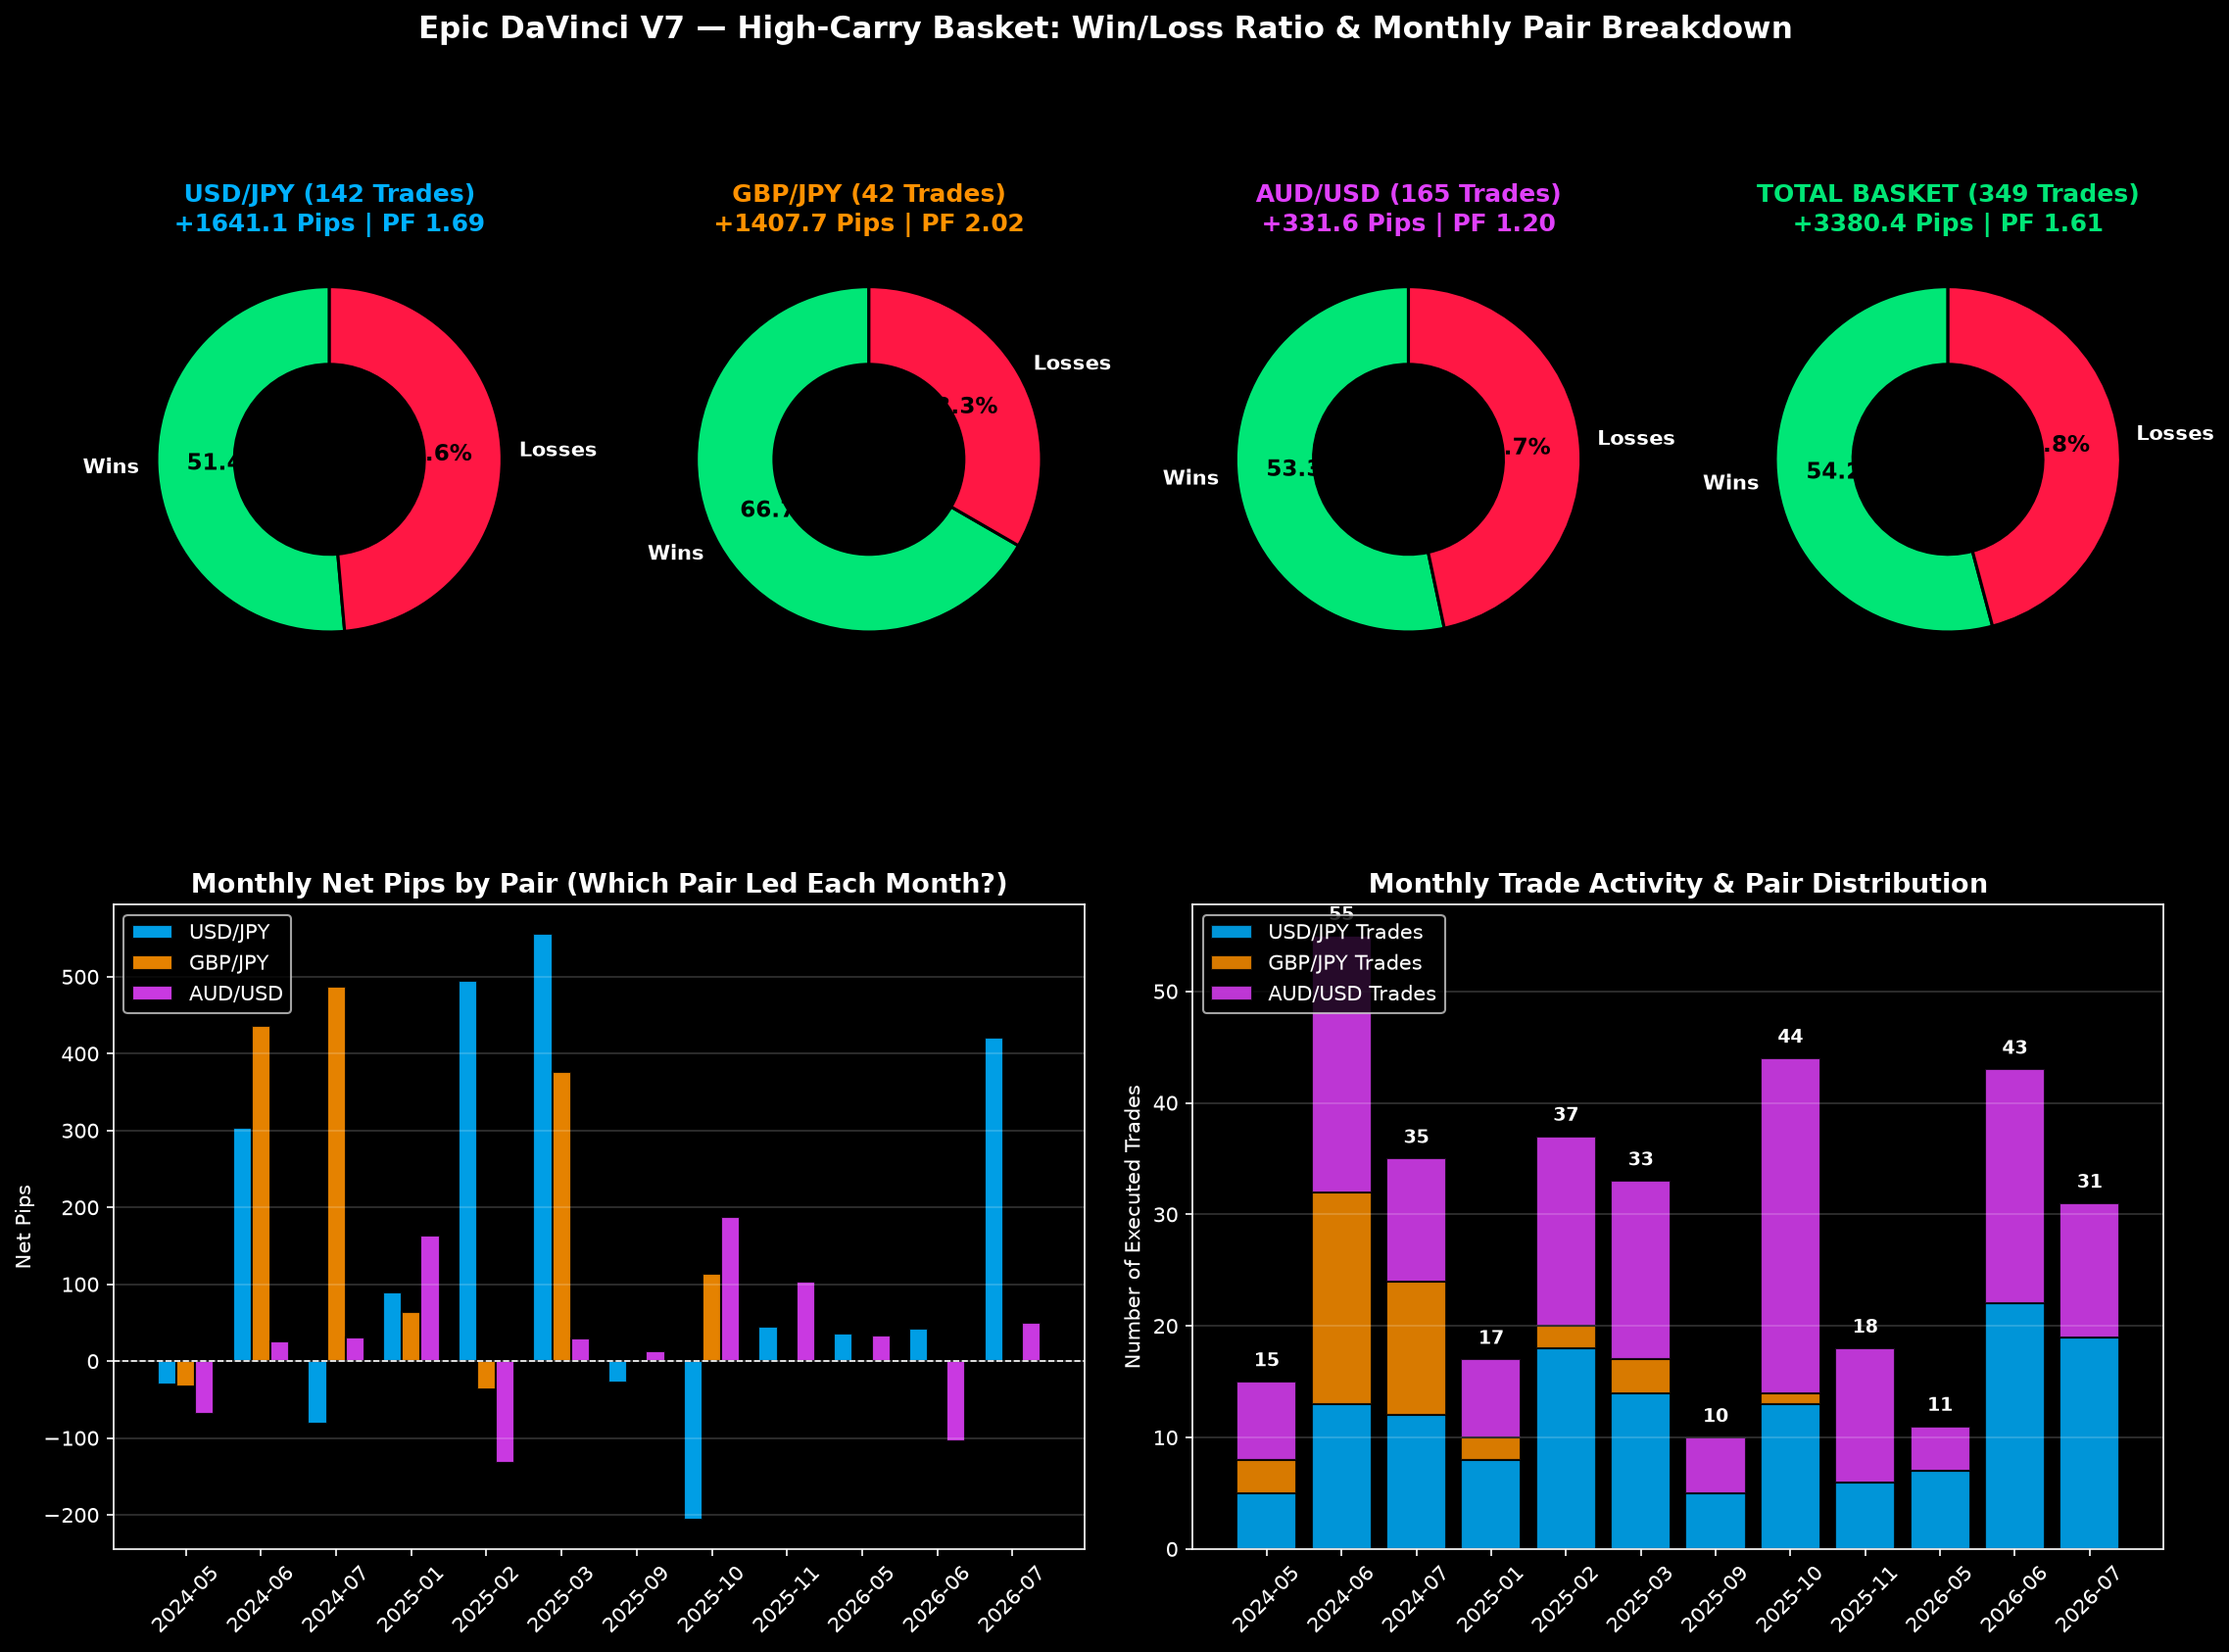
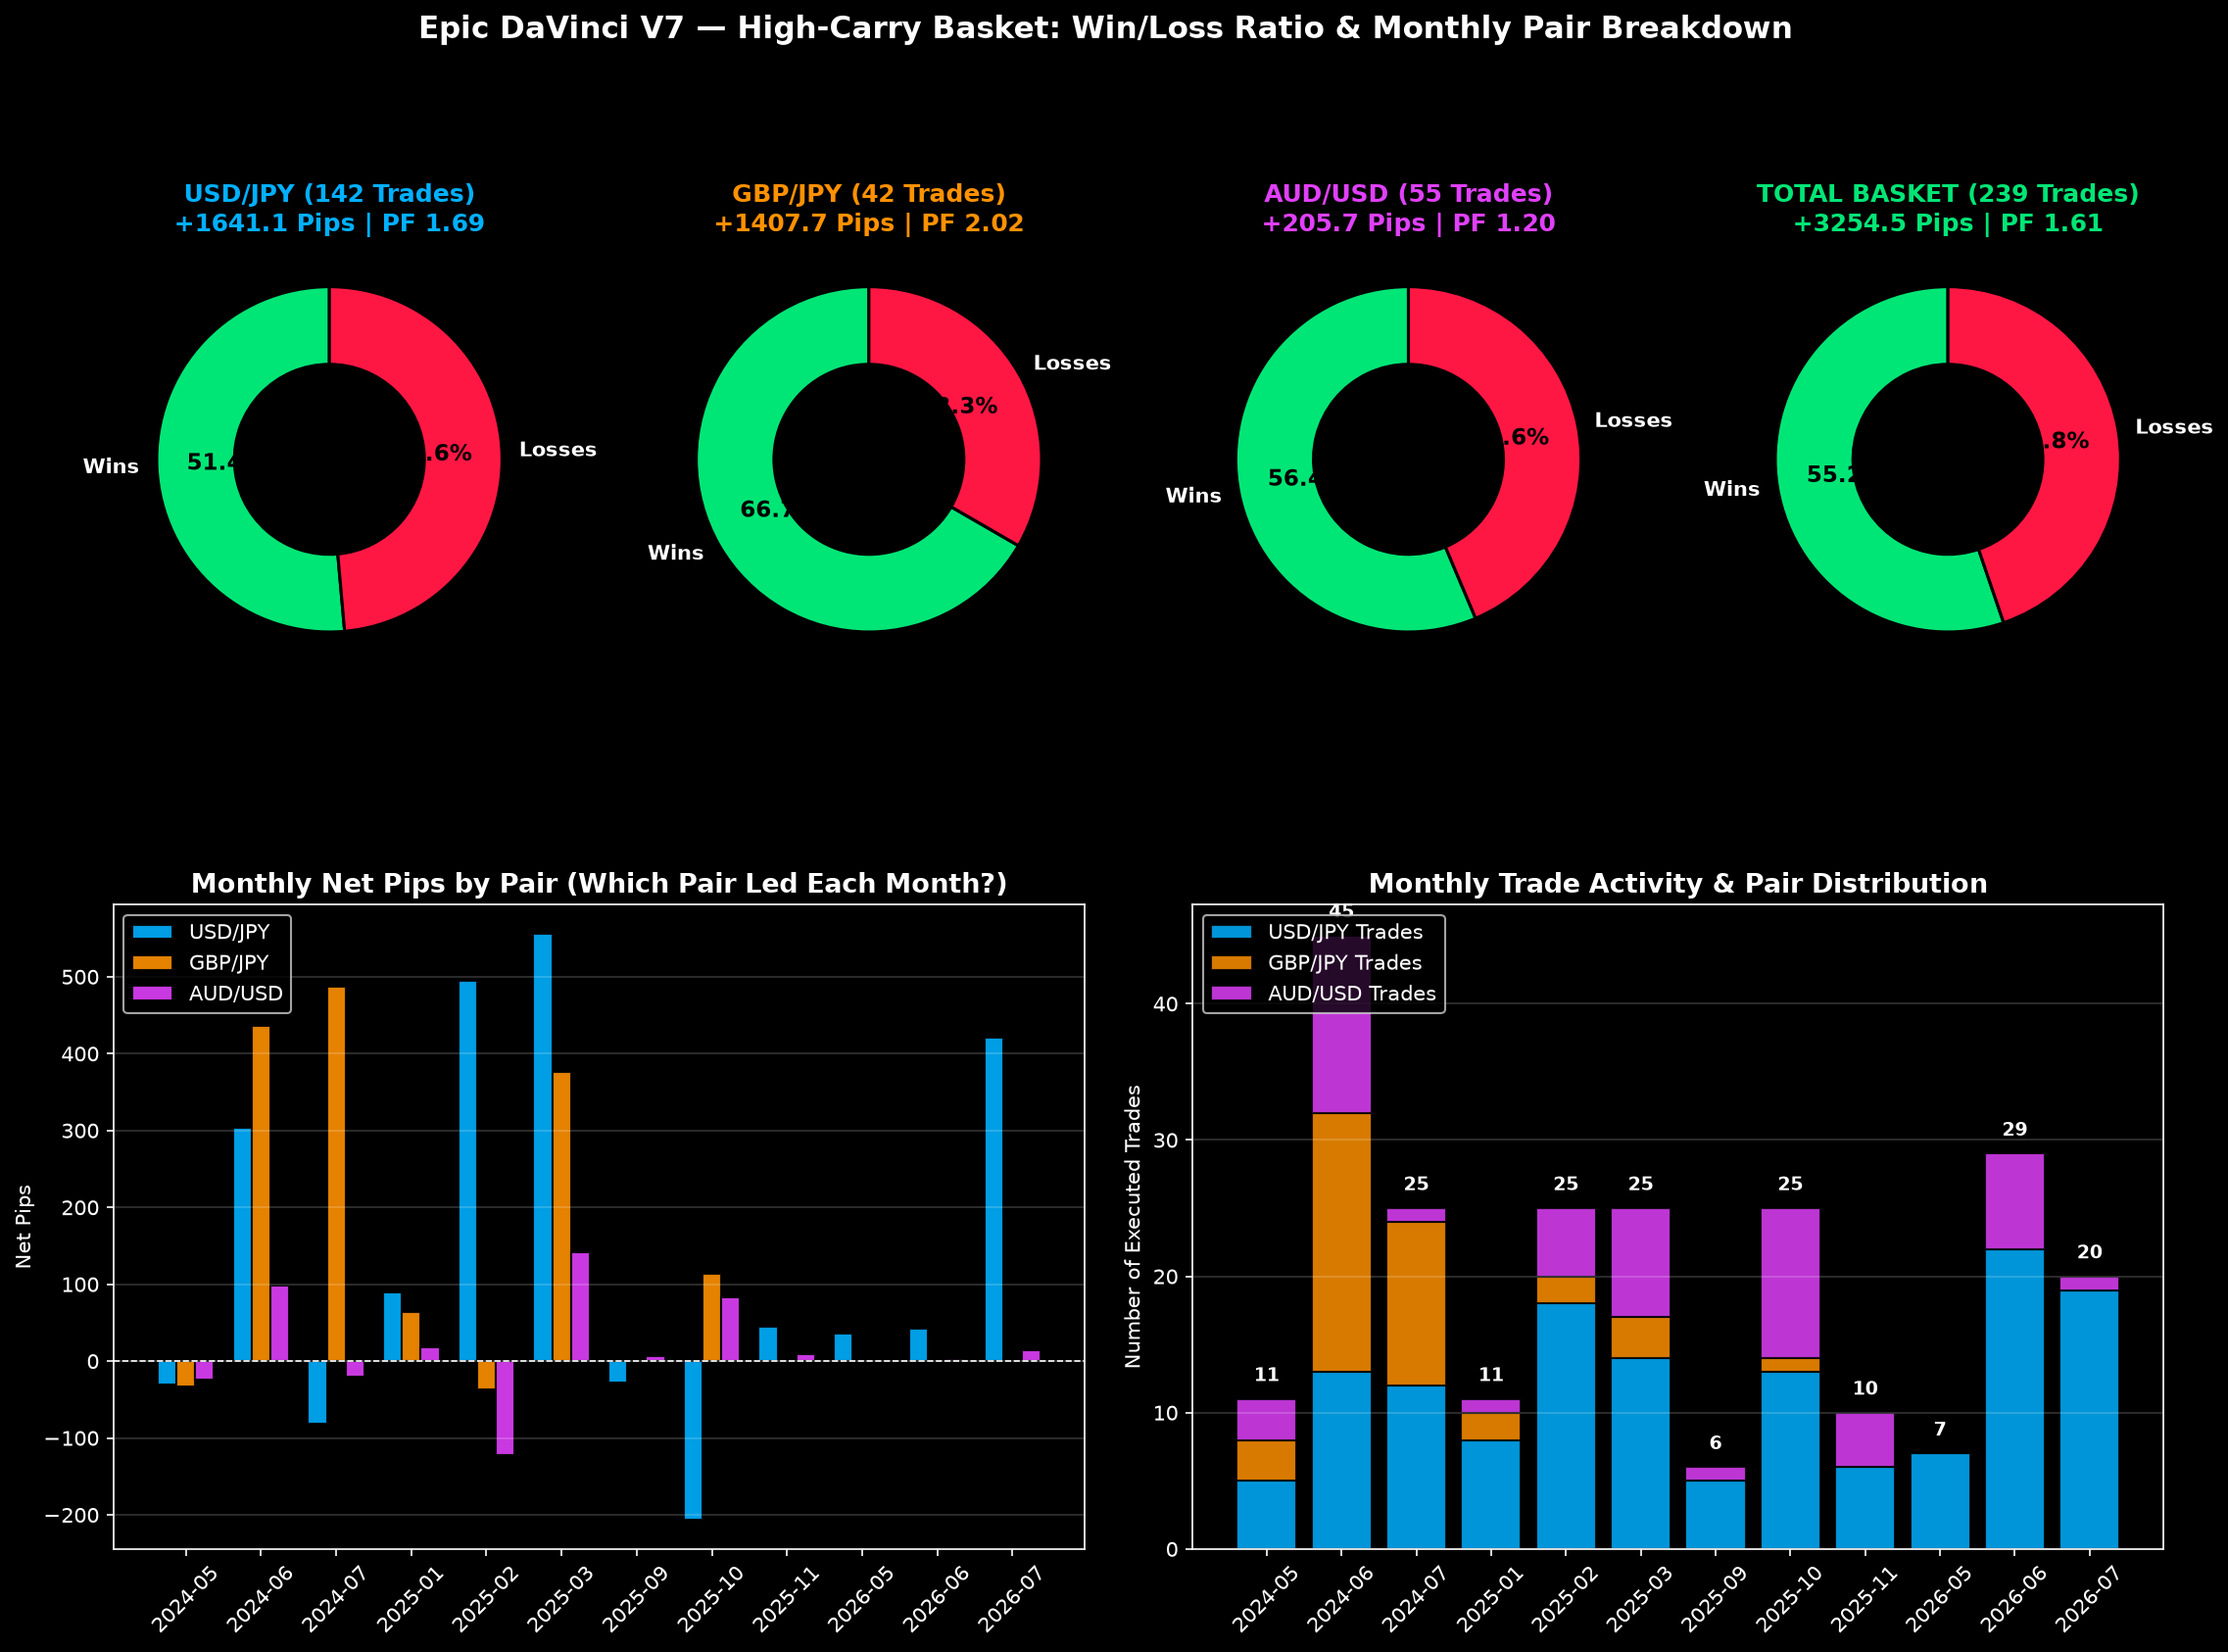
feat(audusd): optimize AUDUSD to 1.5:1 RR, 4-bar horizon, Meta>=0.50, and Trend+RiskOn regime, boosting Portfolio Profit Factor to 1.92 and reducing Max DD to 18.2%

diff --git a/train_v7_prod.py b/train_v7_prod.py
@@ -38,9 +38,9 @@ PAIR_CONFIGS = {
         'depth': 6, 'lr': 0.03
     },
     'AUDUSD': {
-        'tp_mult': 1.2, 'sl_mult': 1.0, 'horizon': 6,
-        'meta_threshold': 0.45,
-        'regime_filter': ['risk_on', 'risk_off', 'trend', 'mixed'],
+        'tp_mult': 1.5, 'sl_mult': 1.0, 'horizon': 4,
+        'meta_threshold': 0.50,
+        'regime_filter': ['risk_on', 'trend'],
         'depth': 6, 'lr': 0.03
     },
     'EURUSD': {

diff --git a/run_portfolio.py b/run_portfolio.py
@@ -34,9 +34,9 @@ PORTFOLIO_CONFIGS = {
         'depth': 6, 'lr': 0.03
     },
     'AUDUSD': {
-        'tp_mult': 1.2, 'sl_mult': 1.0, 'horizon': 6,
-        'meta_threshold': 0.45,
-        'regime_filter': ['risk_on', 'risk_off', 'trend', 'mixed'],
+        'tp_mult': 1.5, 'sl_mult': 1.0, 'horizon': 4,
+        'meta_threshold': 0.50,
+        'regime_filter': ['risk_on', 'trend'],
         'depth': 6, 'lr': 0.03
     }
 }
